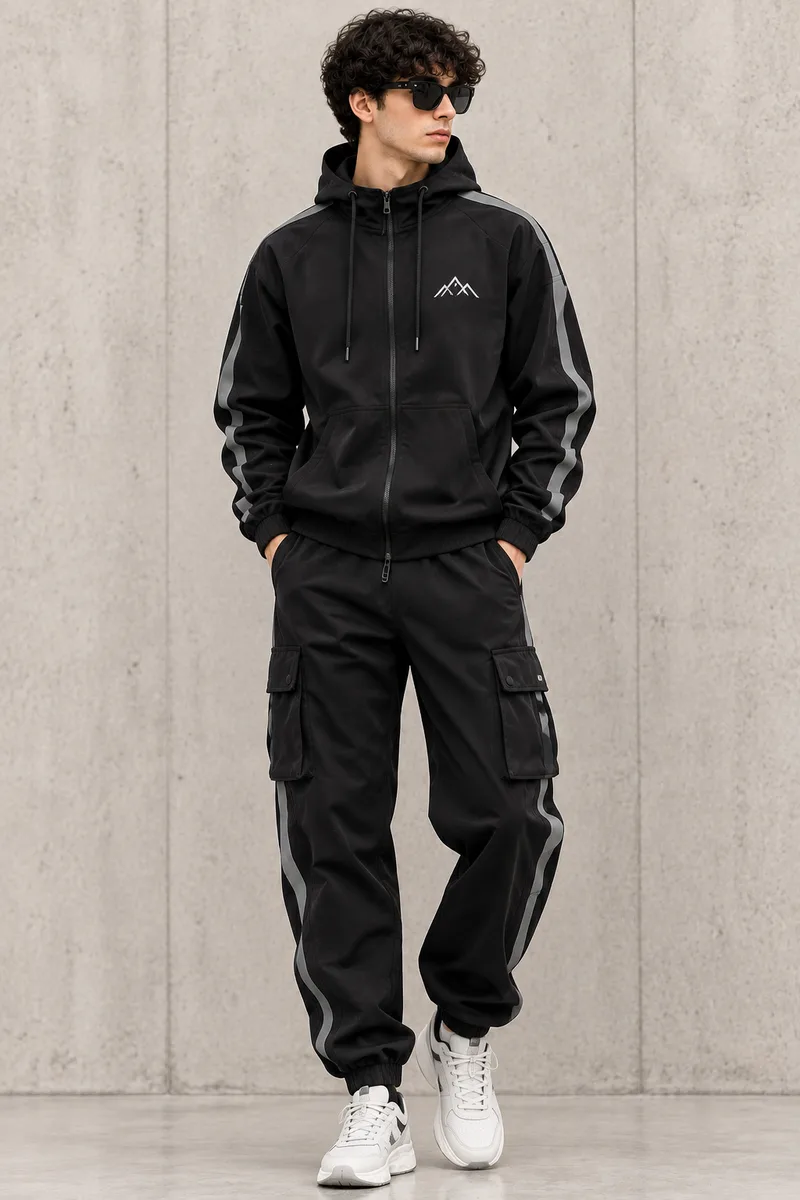
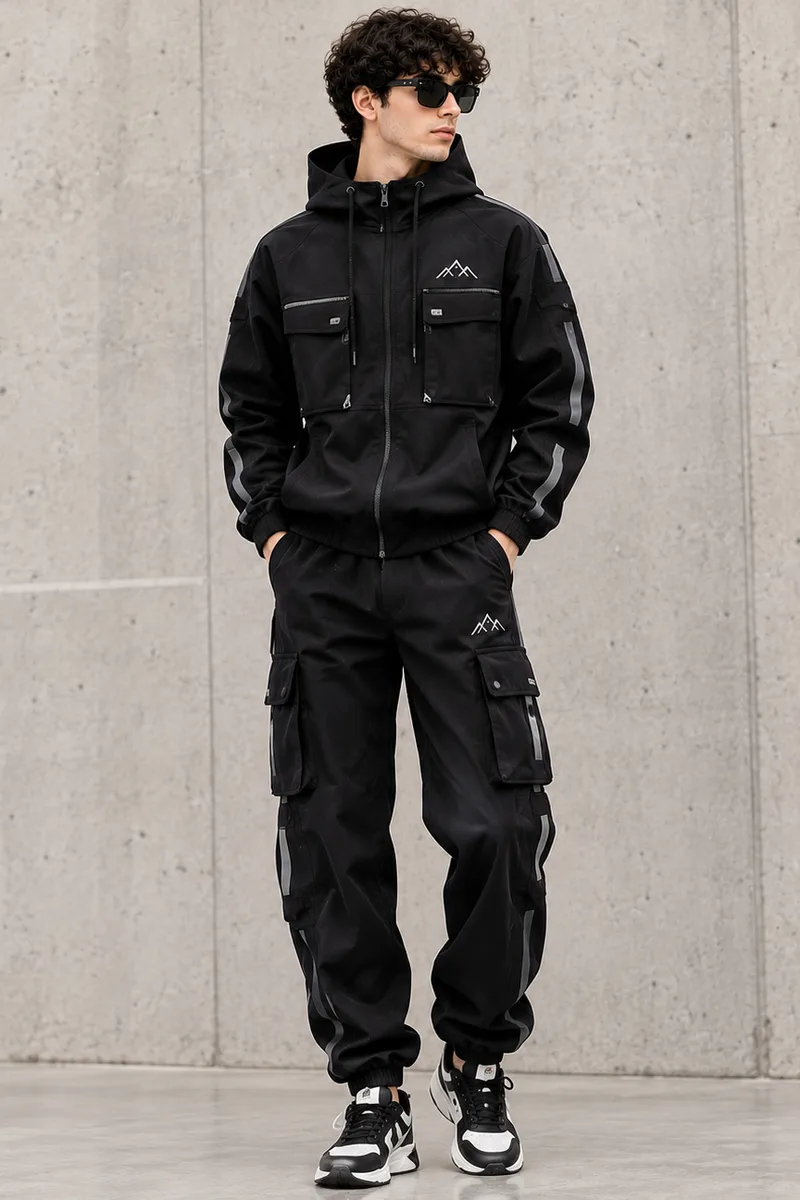
Add Alpine, reorder men designs

diff --git a/src/data/products.ts b/src/data/products.ts
@@ -8,7 +8,6 @@ import type { Category, Product, Size, Variant } from "@/types/product";
 const SIZES: readonly Size[] = ["S", "M", "L", "XL"];
 
 const pink: Variant = { name: "Rose Pink", hex: "#E58BAA", image: "/products/pink-set.webp" };
-const blue: Variant = { name: "Sky Blue", hex: "#6E9BDA", image: "/products/blue-set.webp" };
 const sand: Variant = { name: "Sand", hex: "#D9C7A8", image: "/products/beige-set.webp" };
 const sandFlat: Variant = { name: "Sand", hex: "#D9C7A8", image: "/products/sand-set-flat.webp", fit: "flat" };
 
@@ -26,6 +25,25 @@ const menSummitNavy: Variant = {
   back: "/products/summit-navy-back.webp",
 };
 
+const menMochaTaupe: Variant = {
+  name: "Taupe",
+  hex: "#A68D7C",
+  image: "/products/mocha-taupe-front.webp",
+  back: "/products/mocha-taupe-back.webp",
+};
+const menLatteBeige: Variant = {
+  name: "Beige",
+  hex: "#DCC2A5",
+  image: "/products/latte-beige-front.webp",
+  back: "/products/latte-beige-back.webp",
+};
+const menAlpineNavy: Variant = {
+  name: "Navy & White",
+  hex: "#1C2B50",
+  image: "/products/alpine-navy-front.webp",
+  back: "/products/alpine-navy-back.webp",
+};
+
 const premiumBlack: Variant = {
   name: "Black",
   hex: "#15171A",
@@ -36,10 +54,10 @@ const premiumBlack: Variant = {
 export const products: readonly Product[] = [
   // Men
   { id: "m1", slug: "bear-tracksuit-men", name: "Bear Tracksuit", category: "men", price: 7500, sizes: SIZES, variants: [menBearBlue], isNew: true },
+  { id: "m4", slug: "latte-tracksuit-men", name: "Latte Tracksuit", category: "men", price: 7200, sizes: SIZES, variants: [menLatteBeige] },
   { id: "m2", slug: "summit-tracksuit-men", name: "Summit Tracksuit", category: "men", price: 6900, sizes: SIZES, variants: [menSummitNavy], isNew: true },
-  { id: "m3", slug: "heavy-fleece-tracksuit-men", name: "Heavy Fleece Tracksuit", category: "men", price: 8900, sizes: SIZES, variants: [blue] },
-  { id: "m4", slug: "classic-tracksuit-men", name: "Classic Tracksuit", category: "men", price: 7200, sizes: SIZES, variants: [sandFlat] },
-  { id: "m5", slug: "everyday-tracksuit-men", name: "Everyday Tracksuit", category: "men", price: 6500, sizes: SIZES, variants: [blue], isNew: true },
+  { id: "m3", slug: "mocha-tracksuit-men", name: "Mocha Tracksuit", category: "men", price: 8900, sizes: SIZES, variants: [menMochaTaupe], isNew: true },
+  { id: "m5", slug: "alpine-tracksuit-men", name: "Alpine Tracksuit", category: "men", price: 7800, sizes: SIZES, variants: [menAlpineNavy], isNew: true },
   // Women
   { id: "w1", slug: "bear-tracksuit-women", name: "Bear Tracksuit", category: "women", price: 7500, sizes: SIZES, variants: [pink, sand], isNew: true },
   { id: "w2", slug: "essential-tracksuit-women", name: "Essential Tracksuit", category: "women", price: 6900, sizes: SIZES, variants: [sand, pink] },

diff --git a/src/components/ProductGallery.module.css b/src/components/ProductGallery.module.css
@@ -24,15 +24,17 @@
   outline-offset: -4px;
 }
 
-/* Two small dots = front / back indicator */
+/* Two small dots = front / back indicator (top corner, away from the shoes) */
 .dots {
   position: absolute;
   z-index: 2;
-  left: 50%;
-  bottom: 12px;
-  transform: translateX(-50%);
+  top: 12px;
+  right: 12px;
   display: flex;
   gap: 6px;
+  padding: 6px 8px;
+  border-radius: 999px;
+  background: rgba(249, 246, 237, 0.85);
   pointer-events: none;
 }
 
@@ -40,7 +42,7 @@
   width: 6px;
   height: 6px;
   border-radius: 50%;
-  background: rgba(13, 43, 29, 0.35);
+  background: rgba(13, 43, 29, 0.3);
 }
 
 .dots i.on {

diff --git a/src/components/ProductCard.tsx b/src/components/ProductCard.tsx
@@ -21,7 +21,7 @@ export default function ProductCard({ product }: { product: Product }) {
         front={photo}
         back={variant.back}
         alt={`${product.name} in ${variant.name}`}
-        sizes="(max-width: 640px) 50vw, (max-width: 1100px) 33vw, 240px"
+        sizes="(max-width: 640px) 50vw, (max-width: 1100px) 33vw, 280px"
         frameClassName={`${styles.media} ${isFlat ? styles.flat : ""}`}
         imgClassName={isFlat ? styles.imgFlat : styles.imgModel}
       >

diff --git a/src/components/PremiumSection.tsx b/src/components/PremiumSection.tsx
@@ -23,7 +23,7 @@ export default function PremiumSection({ products }: { products: readonly Produc
                 front={p.variants[0].image}
                 back={p.variants[0].back}
                 alt={`${p.name} in ${p.variants[0].name}`}
-                sizes="(max-width: 900px) 100vw, 460px"
+                sizes="(max-width: 900px) 100vw, 520px"
                 frameClassName={styles.media}
                 imgClassName={styles.photo}
               >

diff --git a/src/components/ProductCard.module.css b/src/components/ProductCard.module.css
@@ -17,7 +17,7 @@
 
 .imgModel {
   object-fit: cover;
-  transition: transform 0.5s ease;
+  object-position: 50% 50%;
 }
 
 .imgFlat {
@@ -26,7 +26,8 @@
   transition: transform 0.5s ease;
 }
 
-.card:hover .imgModel,
+/* Only the product cut-outs (padded) get a small zoom. Model photos never zoom,
+   so heads and shoes are not cropped. */
 .card:hover .imgFlat {
   transform: scale(1.04);
 }

diff --git a/src/app/globals.css b/src/app/globals.css
@@ -11,7 +11,7 @@
   --font-sans: var(--font-jost), system-ui, sans-serif;
   --font-serif: var(--font-cormorant), Georgia, serif;
 
-  --max-width: 1240px;
+  --max-width: 1360px;
   --gutter: 40px;
 }
 

diff --git a/src/components/PremiumSection.module.css b/src/components/PremiumSection.module.css
@@ -47,7 +47,7 @@
 }
 
 .card {
-  flex: 0 1 460px;
+  flex: 0 1 520px;
   min-width: 0;
 }
 
